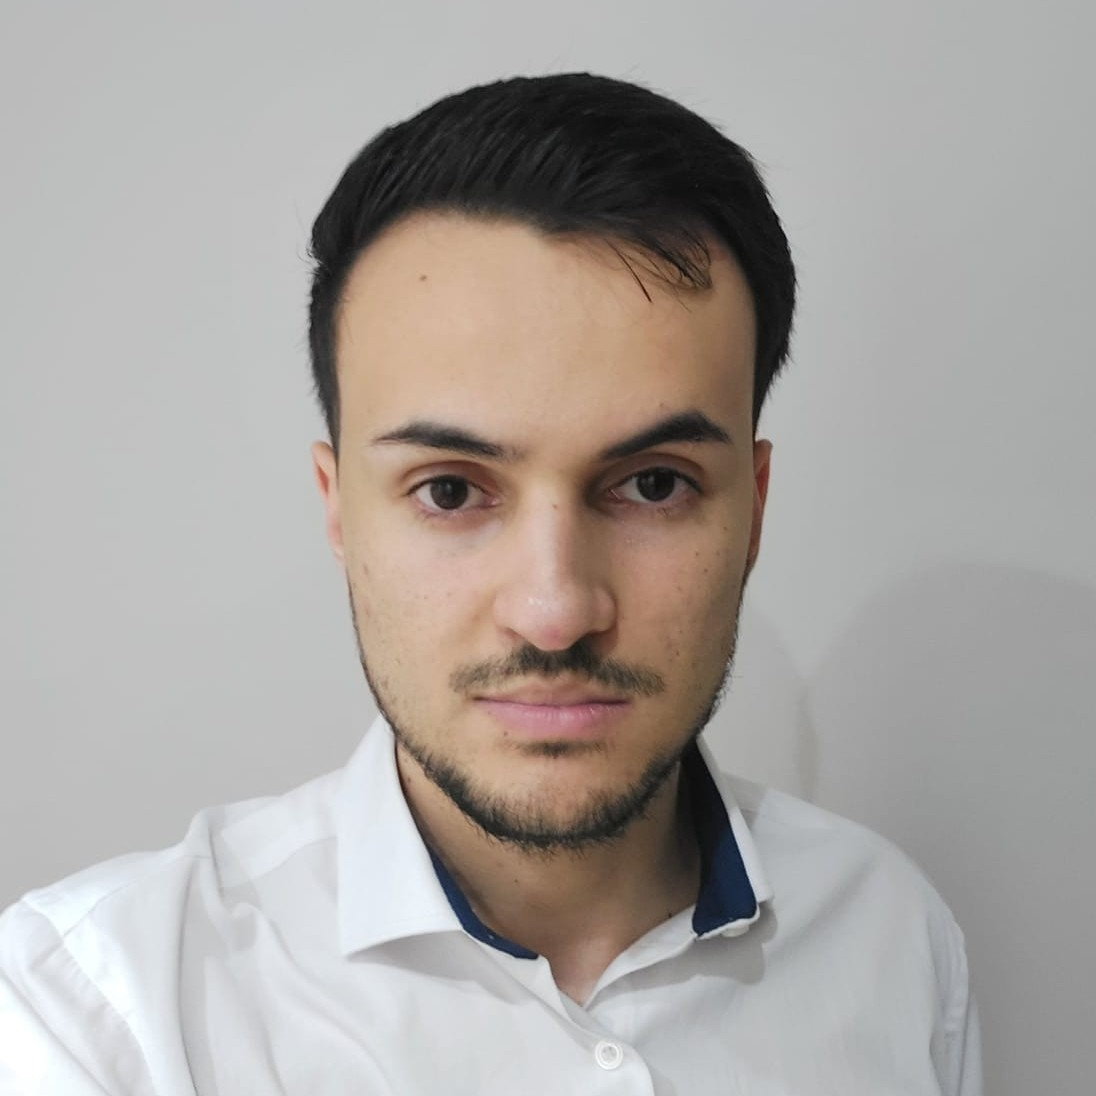
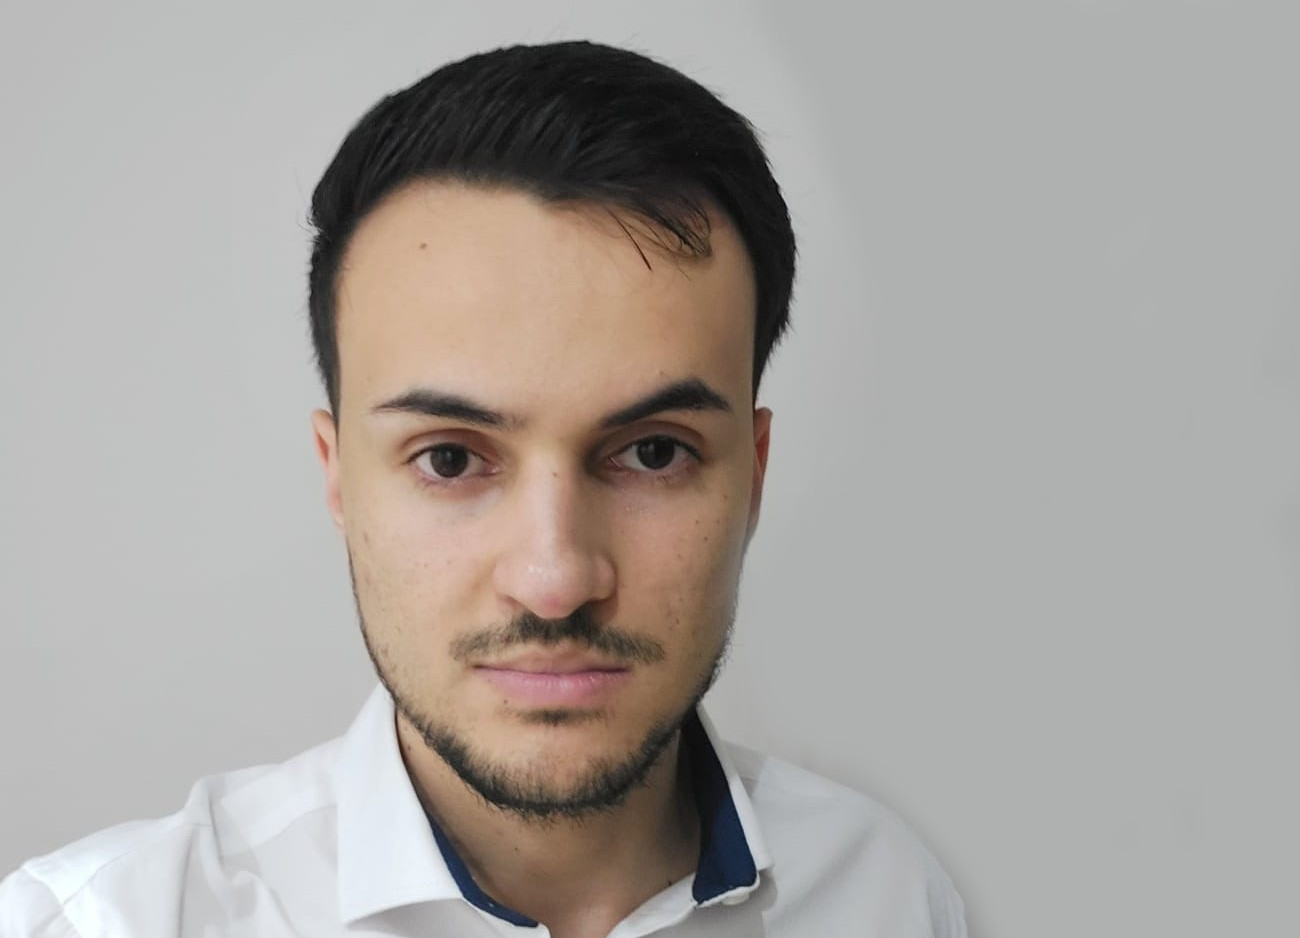
testing pagar.html and update photos.

diff --git a/about.html b/about.html
@@ -35,8 +35,7 @@
           <div class="col-md-4 mb-4">
             <div class="card">
               <img
-                class="img-fluid rounded-circle mb-3 pics align-self-center"
-                src="imgs/about/about.jpg"
+                src="imgs/about/Jefferson.jpeg"
                 alt="Jefferson Pedro"
               />
               <div class="card-body text-center">
@@ -61,8 +60,7 @@
           <div class="col-md-4 mb-4">
             <div class="card">
               <img
-                class="img-fluid rounded-circle mb-3 pics align-self-center"
-                src="imgs/about/about.jpg"
+                src="imgs/about/Artur.jpeg"
                 alt="Artur Gustavo"
               />
               <div class="card-body text-center">

diff --git a/products.html b/products.html
@@ -3,6 +3,7 @@
   <head>
     <meta charset="UTF-8" />
     <meta name="viewport" content="width=device-width, initial-scale=1.0" />
+    <link rel="stylesheet" href="style.css">
     <title>Produtos - Custom LightSabers</title>
     <style>
       /* Seus estilos existentes */
@@ -12,6 +13,7 @@
     <div id="navbarContainer" class="wrapper"></div>
     <div class="carrinho" id="carrinho"><li class="nav-link total">
         Carrinho: <span id="total" class="qtd">0</span></h3>
+        <a id="pagar" class="pagar" href="login">Pagar</a>
       </li></div>
 
     <!-- Conteúdo da página -->

diff --git a/pagar.html b/pagar.html
@@ -1,0 +1,11 @@
+<!DOCTYPE html>
+<html lang="en">
+<head>
+    <meta charset="UTF-8">
+    <meta name="viewport" content="width=device-width, initial-scale=1.0">
+    <title>pagar</title>
+</head>
+<body>
+    <h1>Pagar - teste</h1>
+</body>
+</html>

diff --git a/styles.css b/styles.css
@@ -143,3 +143,10 @@ body {
 .qtd {
   font-weight: 800;
 }
+
+.pagar {
+  color: white;
+  text-decoration: none;
+  font-weight: 800;
+  margin-left: 50px;
+}
